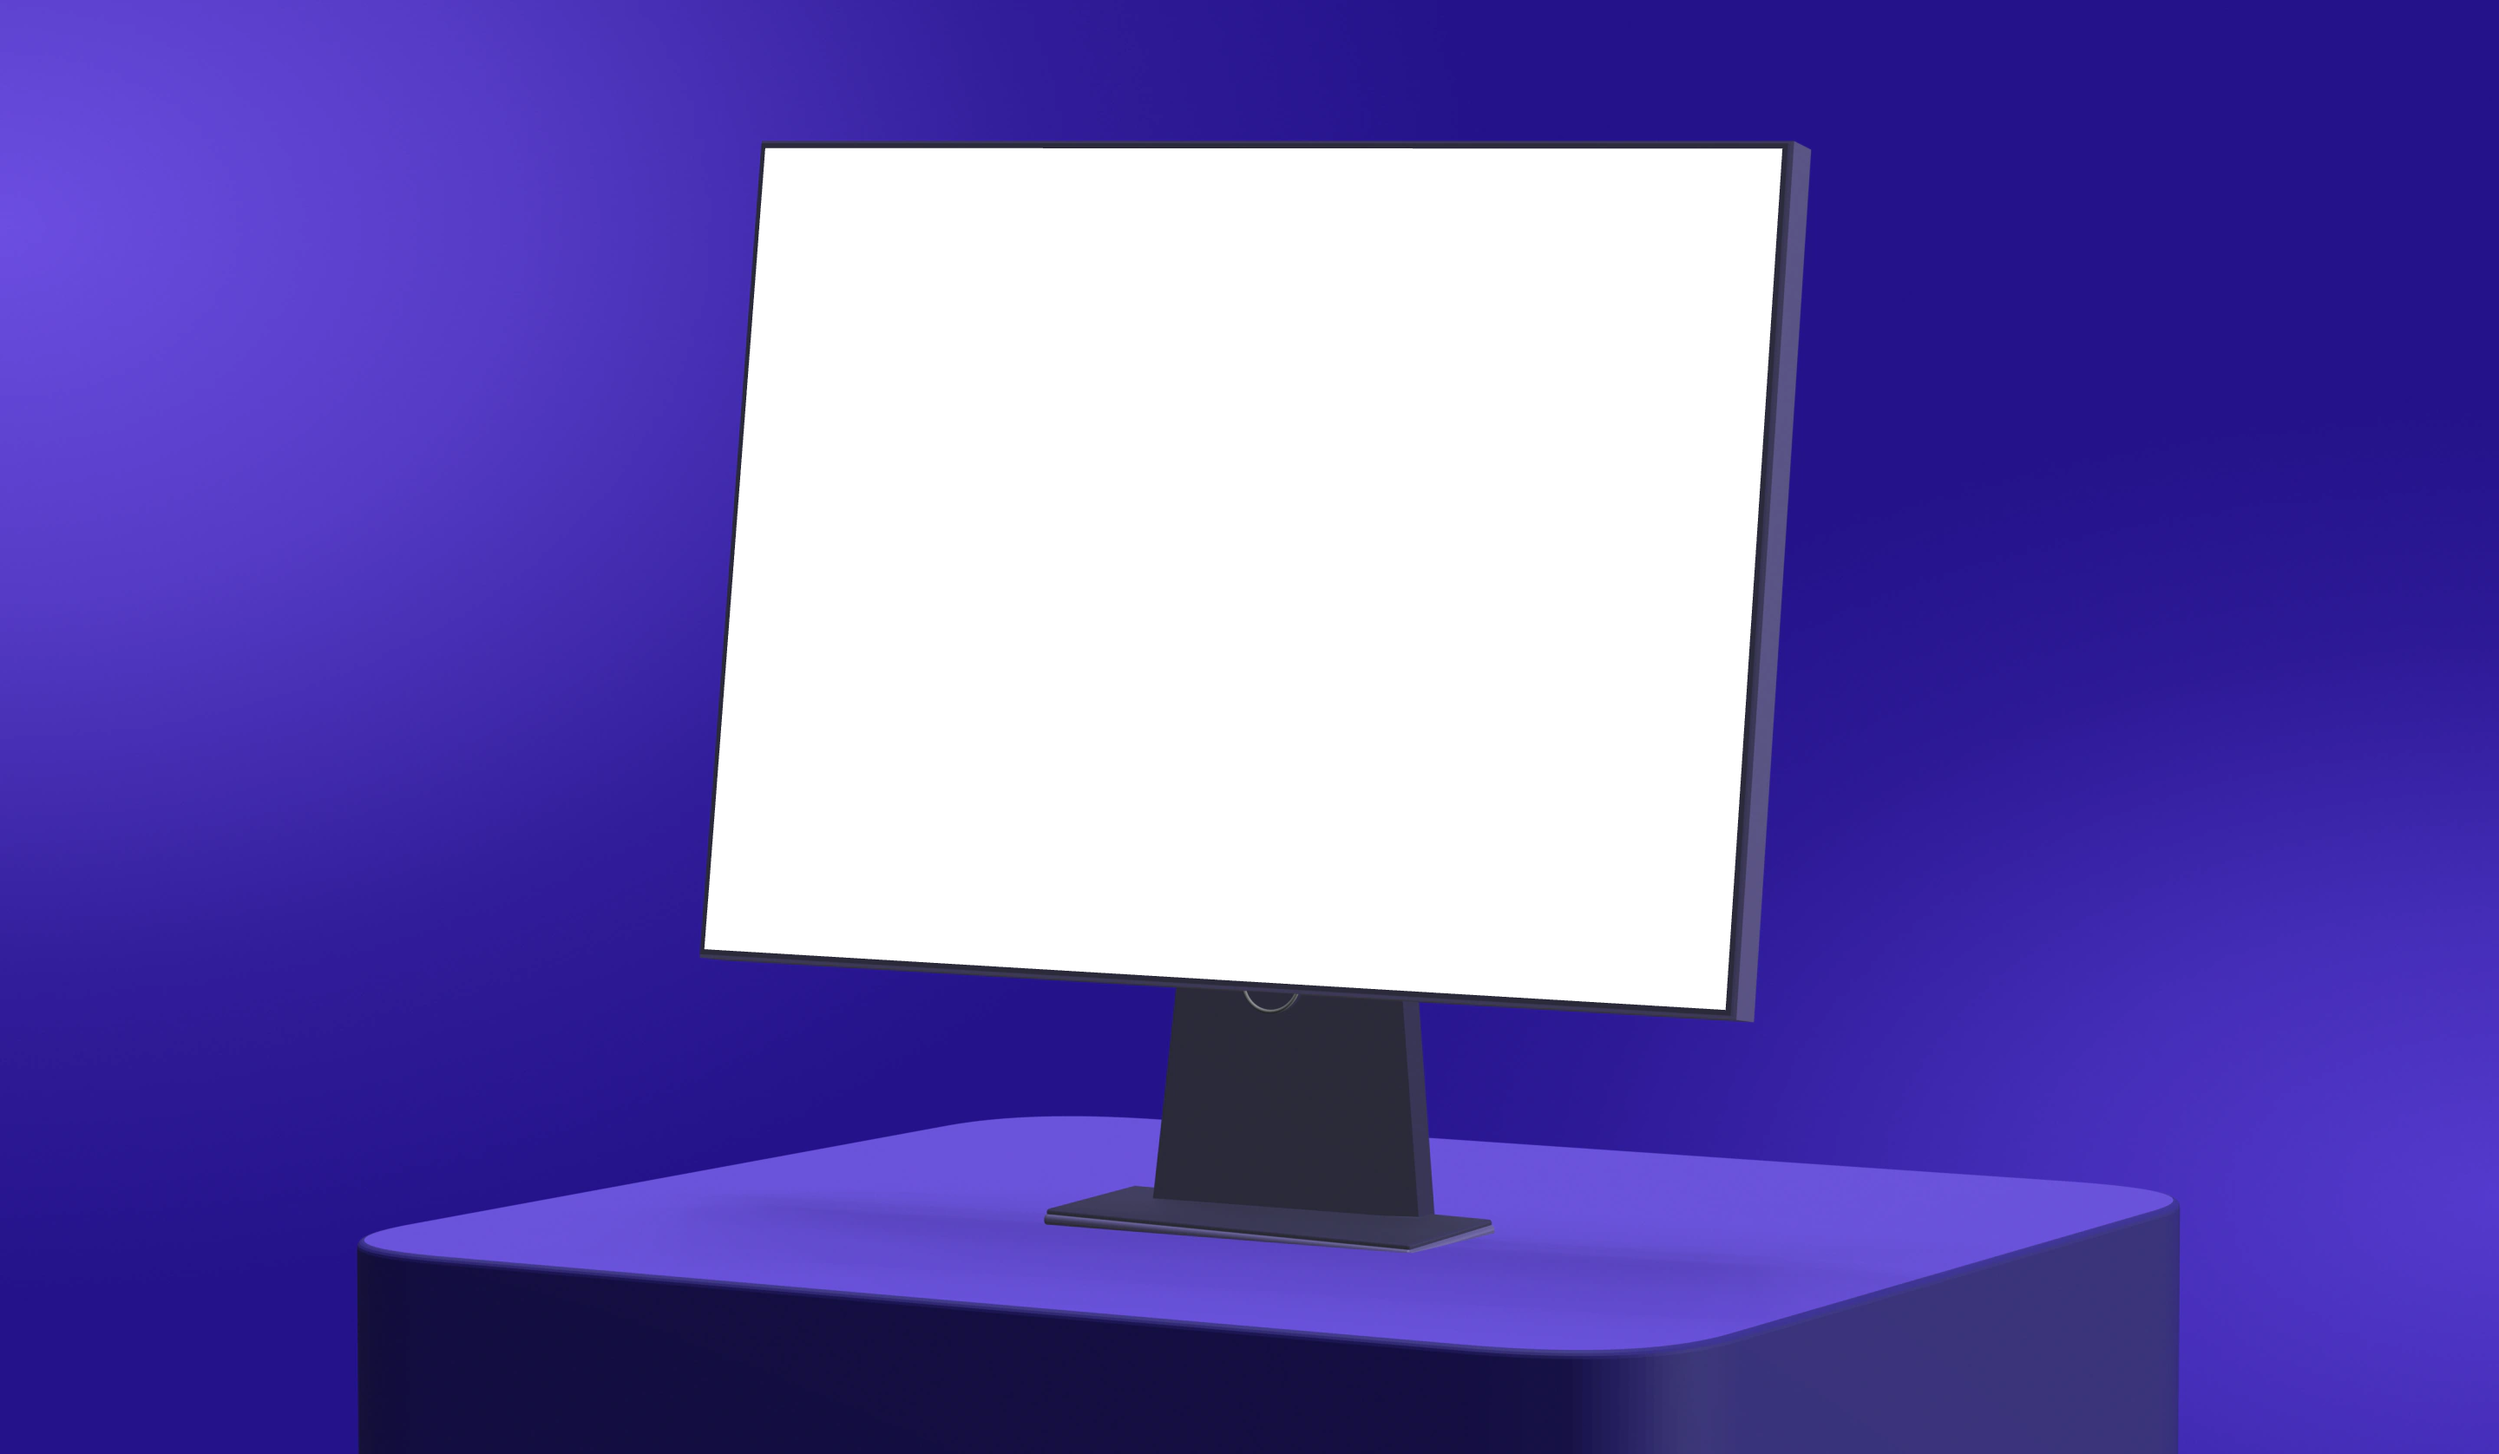
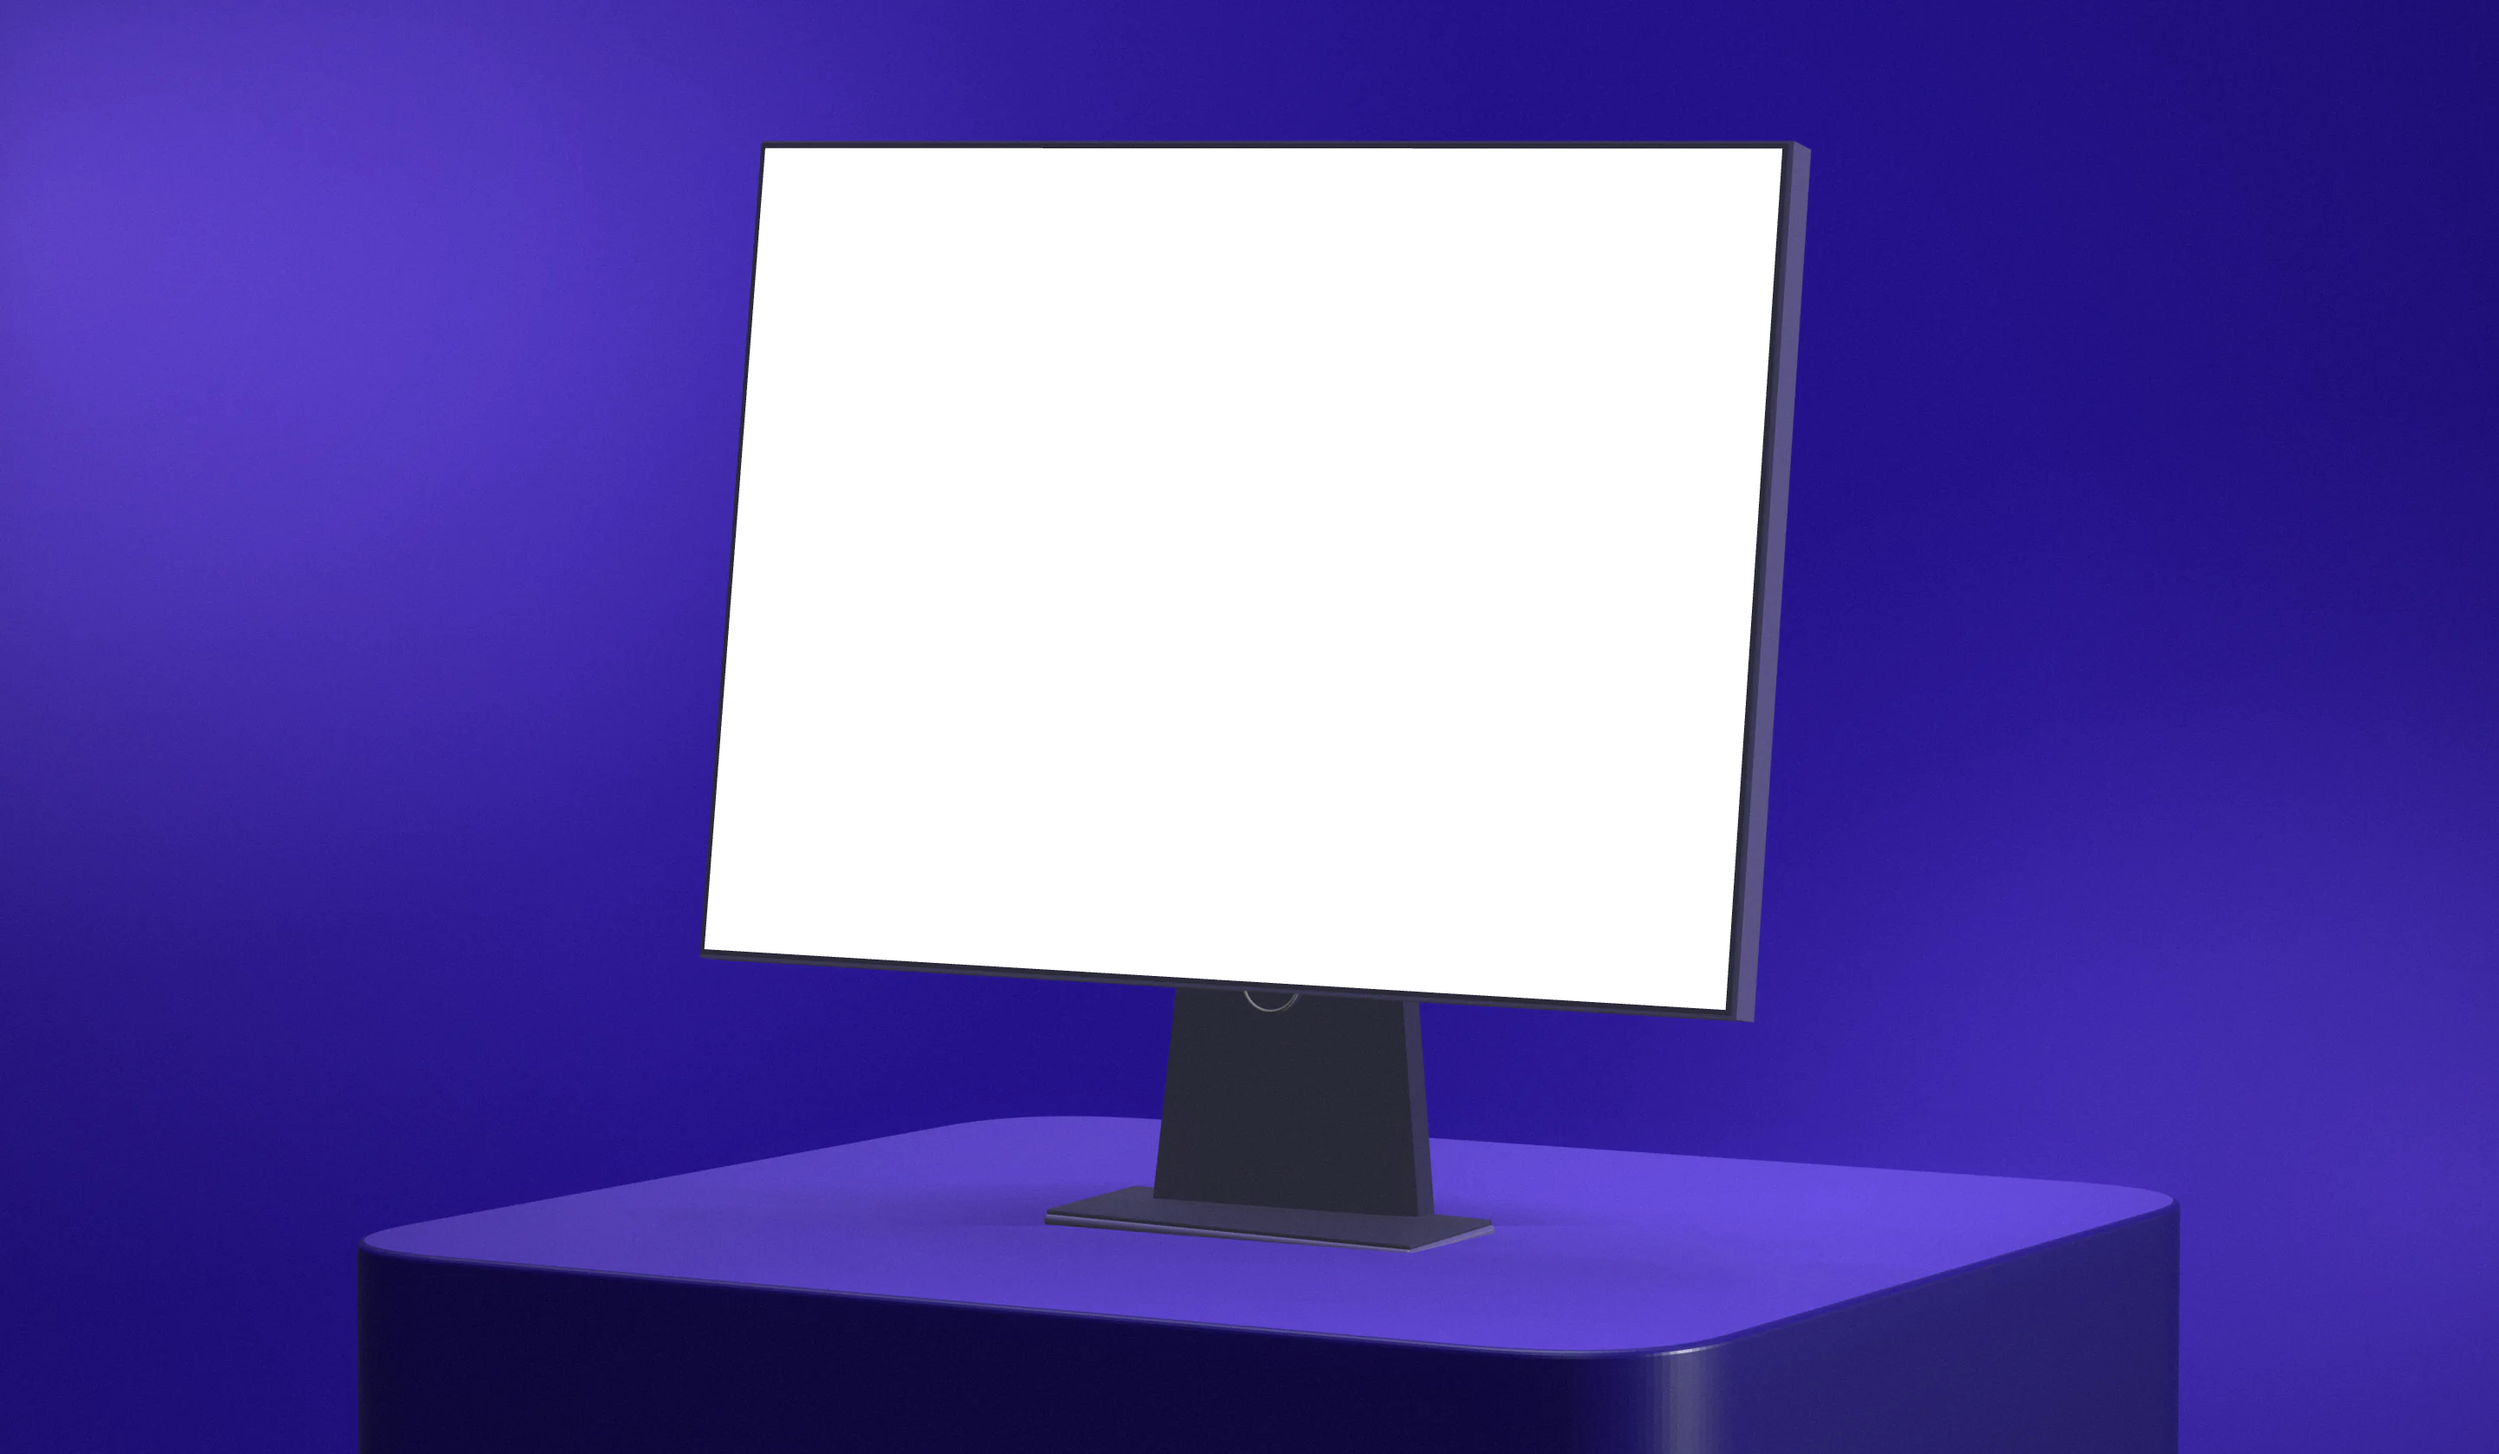
Devsign cover: surface grain, light falloff, contact shadow and film finish

diff --git a/scripts/cover-3d/scene.html b/scripts/cover-3d/scene.html
@@ -16,7 +16,12 @@ const add=(g,m,p,par=rig)=>{const o=new THREE.Mesh(g,m);o.position.set(...p);o.c
 const pl=P.pl;
 {const sh2=new THREE.Shape(),w=pl[0]/2,d=pl[2]/2,c=.3;sh2.moveTo(-w+c,-d);sh2.lineTo(w-c,-d);sh2.quadraticCurveTo(w,-d,w,-d+c);sh2.lineTo(w,d-c);sh2.quadraticCurveTo(w,d,w-c,d);sh2.lineTo(-w+c,d);sh2.quadraticCurveTo(-w,d,-w,d-c);sh2.lineTo(-w,-d+c);sh2.quadraticCurveTo(-w,-d,-w+c,-d);
 const g=new THREE.ExtrudeGeometry(sh2,{depth:pl[1],bevelEnabled:true,bevelThickness:.012,bevelSize:.012,bevelSegments:4,curveSegments:32});g.rotateX(Math.PI/2);
-const o=new THREE.Mesh(g,[M(P.plc,.55),M(P.pls,.7)]);o.position.set(P.px||0,P.py,P.pz||0);o.rotation.y=P.pyaw;o.rotation.x=P.ptilt;o.castShadow=o.receiveShadow=true;s.add(o);}
+const tex=(n,draw)=>{const c=document.createElement('canvas');c.width=c.height=n;draw(c.getContext('2d'),n);const t=new THREE.CanvasTexture(c);t.wrapS=t.wrapT=THREE.RepeatWrapping;return t};
+const grain=tex(1024,(x,n)=>{const d=x.createImageData(n,n);for(let i=0;i<d.data.length;i+=4){const v=118+Math.random()*20;d.data[i]=d.data[i+1]=d.data[i+2]=v;d.data[i+3]=255}x.putImageData(d,0,0)});grain.repeat.set(1.2,1.2);
+const yb=g.attributes.position,col=new Float32Array(yb.count*3),uv=g.attributes.uv;let miny=1e9,maxy=-1e9;for(let i=0;i<yb.count;i++){const y=yb.getY(i);miny=Math.min(miny,y);maxy=Math.max(maxy,y)}
+for(let i=0;i<yb.count;i++){const t=(yb.getY(i)-miny)/(maxy-miny),x=yb.getX(i)/pl[0]+.5,z=yb.getZ(i)/pl[2]+.5;const v=t>.999?(.82+.3*x-.12*z):Math.pow(t,6)*.75+.25;col[i*3]=col[i*3+1]=col[i*3+2]=v}g.setAttribute('color',new THREE.BufferAttribute(col,3));
+const topm=M(P.plc,.62),sidem=M(P.pls,.72);for(const m of [topm,sidem]){m.vertexColors=true;m.bumpMap=grain;m.bumpScale=.35;m.roughnessMap=grain}
+const o=new THREE.Mesh(g,[topm,sidem]);o.position.set(P.px||0,P.py,P.pz||0);o.rotation.y=P.pyaw;o.rotation.x=P.ptilt;o.castShadow=o.receiveShadow=true;s.add(o);}
 const mon=new THREE.Group();mon.position.set(...P.mon);mon.rotation.x=P.tilt;rig.add(mon);
 const sw=1.92,sh=1.43,bz=P.bz||.022,th=.085,bw=sw+bz*2,bh=sh+bz*2;
 const black=M(P.body||'#050506',.42,P.body?.25:0),silver=M(P.edge||'#c8ccd0',.38,.35);if(P.body){black.emissive=new THREE.Color('#ffffff');black.emissiveIntensity=P.glow;silver.emissive=new THREE.Color('#ffffff');silver.emissiveIntensity=P.glow*.8;}
@@ -33,6 +38,7 @@ const ns=new THREE.Shape();ns.moveTo(-P.nb/2,-.5);ns.lineTo(P.nb/2,-.5);ns.lineT
 const ng=new THREE.ExtrudeGeometry(ns,{depth:.07,bevelEnabled:false});ng.translate(0,0,-.035);
 const neck=add(ng,black,[0,0,0]);
 {const a=rig.worldToLocal(mon.localToWorld(new THREE.Vector3(P.nx,-sh*.42,-.13))),b=new THREE.Vector3(P.foot[0],P.py+.03,P.foot[1]-.1);neck.position.copy(a.clone().add(b).multiplyScalar(.5));neck.scale.y=a.distanceTo(b);neck.quaternion.setFromUnitVectors(new THREE.Vector3(0,1,0),a.clone().sub(b).normalize());}
+{const c=document.createElement('canvas');c.width=c.height=512;const x=c.getContext('2d');const g2=x.createRadialGradient(256,256,20,256,256,256);g2.addColorStop(0,'rgba(8,4,40,.75)');g2.addColorStop(.45,'rgba(8,4,40,.34)');g2.addColorStop(1,'rgba(8,4,40,0)');x.fillStyle=g2;x.fillRect(0,0,512,512);const m=new THREE.Mesh(new THREE.PlaneGeometry(P.fs[0]*2.1,P.fs[1]*3.2),new THREE.MeshBasicMaterial({map:new THREE.CanvasTexture(c),transparent:true,depthWrite:false}));m.rotation.x=-Math.PI/2;m.position.set(P.foot[0],P.py+.016,P.foot[1]);rig.add(m)}
 const key=new THREE.DirectionalLight('#fff',P.key);key.castShadow=true;key.shadow.mapSize.set(2048,2048);Object.assign(key.shadow.camera,{left:-5,right:5,top:5,bottom:-5,near:.1,far:30});key.shadow.bias=-.0004;key.shadow.normalBias=.02;s.add(key,key.target);
 const fill=new THREE.DirectionalLight('#fff',P.fill);fill.position.set(-1,10,1.5);s.add(fill);
 const rim=new THREE.DirectionalLight('#fff',P.rim);rim.position.set(...P.rimp);s.add(rim);
@@ -50,7 +56,11 @@ b.setTransform(1,0,0,1,0,0);
 const bi=b.getImageData(0,0,W,H),d=bi.data,out=x.createImageData(W,H),e=out.data;
 for(let yy=0;yy<H;yy++)for(let xx=0;xx<W;xx++){const i=((H-1-yy)*W+xx)*4,o=(yy*W+xx)*4,a=acc[i+3]/n/255,nz=(Math.random()-.5)*2.2;for(let k=0;k<3;k++)e[o+k]=Math.max(0,Math.min(255,acc[i+k]/n+d[o+k]*(1-a)+nz));e[o+3]=255}
 x.putImageData(out,0,0);
+{const hi=document.createElement('canvas');hi.width=W;hi.height=H;const hx=hi.getContext('2d'),hd=hx.createImageData(W,H);for(let i=0;i<e.length;i+=4){const l=(e[i]+e[i+1]+e[i+2])/3,k=Math.max(0,l-105)/150;hd.data[i]=e[i]*k;hd.data[i+1]=e[i+1]*k;hd.data[i+2]=e[i+2]*k;hd.data[i+3]=255}hx.putImageData(hd,0,0);
+x.globalCompositeOperation='lighter';x.filter=`blur(${W/90}px)`;x.globalAlpha=.4;x.drawImage(hi,0,0);x.filter='none';x.globalAlpha=1;x.globalCompositeOperation='source-over';
+const v=x.createRadialGradient(W*.52,H*.46,W*.3,W*.52,H*.46,W*.75);v.addColorStop(0,'rgba(10,4,50,0)');v.addColorStop(1,'rgba(10,4,50,.42)');x.fillStyle=v;x.fillRect(0,0,W,H);
+const id=x.getImageData(0,0,W,H);for(let i=0;i<id.data.length;i+=4){const n=((Math.random()+Math.random())-1)*P.grain;id.data[i]+=n;id.data[i+1]+=n;id.data[i+2]+=n}x.putImageData(id,0,0)}
 // Screen hole, antialiased.
-x.globalCompositeOperation='destination-out';x.beginPath();corners.forEach(([a,bb],i)=>{const px=a/L,py=bb/L;i?x.lineTo(px,py):x.moveTo(px,py)});x.closePath();x.fill();
+x.fillStyle='#000';x.globalCompositeOperation='destination-out';x.beginPath();corners.forEach(([a,bb],i)=>{const px=a/L,py=bb/L;i?x.lineTo(px,py):x.moveTo(px,py)});x.closePath();x.fill();
 window.DONE=true;
 </script>
